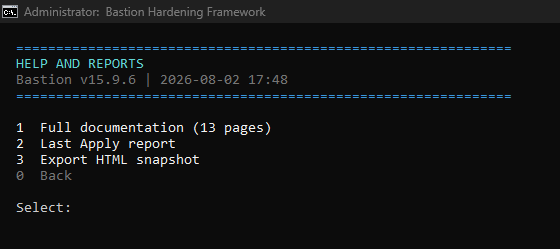
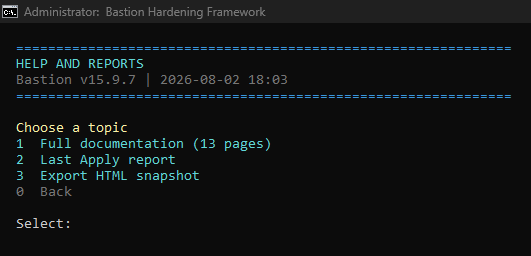
docs: promote v15.9.7 as public recommended build
Refresh help-overview screenshot, wiki Home/FAQ, README/SECURITY/ARCHITECTURE
so modular 15.9.7 is Latest (no longer pin 15.8.4 / prerelease language).

diff --git a/docs/wiki/Home.md b/docs/wiki/Home.md
@@ -2,7 +2,7 @@
 
 **Selective, state-aware, safety-first Windows hardening for a personal PC you administer.**
 
-This wiki is a short **user handbook** for **Bastion v15.9.7** (modular plain-text `src\` builds; source never encrypted; DPAPI only for Apply undo data; forced black console theme). Deeper technical detail ships **in the release zip** under `docs/` and in **in-app Help** (main menu **11**). Prefer the [v15.9.7 prerelease](https://github.com/jjames06/bastion-hardening/releases/tag/v15.9.7) for modular launch fixes + dark console; the [official site](https://www.operationlockedin.com/bastion/download) / [Latest](https://github.com/jjames06/bastion-hardening/releases/latest) may still pin public **15.8.4**. Always start with **`Bastion-Hardening.bat`** (Unblock the zip first; never double-click the `.ps1` alone).
+This wiki is a short **user handbook** for **Bastion v15.9.7** (modular plain-text `src\` builds; source never encrypted; DPAPI only for Apply undo data; forced black console theme; Help docs color-coded for dark UI). Deeper technical detail ships **in the release zip** under `docs/` and in **in-app Help** (main menu **11**). **v15.9.7** is the public recommended build on the [official site](https://www.operationlockedin.com/bastion/download) and [GitHub Latest](https://github.com/jjames06/bastion-hardening/releases/latest). Always start with **`Bastion-Hardening.bat`** (Unblock the zip first; never double-click the `.ps1` alone).
 
 ## Start here
 

diff --git a/docs/wiki/FAQ.md b/docs/wiki/FAQ.md
@@ -14,10 +14,10 @@
 
 ## Which file do I download?
 
-Prefer **v15.9.7** modular (Help color-coded docs on black console; forced dark theme; High-IL bat elevation; goto-safe launcher; works after LanmanServer is disabled). Official site download may still pin GitHub **Latest** (often monolith **v15.8.4**) until modular is promoted - that is intentional.
+Prefer **v15.9.7** modular (Help color-coded docs on black console; forced dark theme; High-IL bat elevation; goto-safe launcher; works after LanmanServer is disabled). **v15.9.7** is the public recommended build (GitHub Latest + official site).
 
-- **Modular prerelease (recommended for hardened PCs):** https://github.com/jjames06/bastion-hardening/releases/tag/v15.9.7  
-- **Official site / GitHub Latest (public pin):** https://www.operationlockedin.com/bastion/download and https://github.com/jjames06/bastion-hardening/releases/latest  
+- **Recommended (Latest):** https://github.com/jjames06/bastion-hardening/releases/tag/v15.9.7  
+- **Official site / GitHub Latest:** https://www.operationlockedin.com/bastion/download and https://github.com/jjames06/bastion-hardening/releases/latest  
 
 **Install rule:** Unblock the zip, extract, always run **`Bastion-Hardening.bat`** as administrator. Never double-click `Bastion-Hardening.ps1` alone under Restricted policy.
 

diff --git a/docs/ARCHITECTURE.md b/docs/ARCHITECTURE.md
@@ -141,9 +141,9 @@ Expected: “Elevated console ready”, then main menu (or use `tools-run-bootst
 
 ## Version
 
-Product-facing version is **15.9.6** (`$script:Config.ScriptVersion` in `Bastion.Init.ps1`, bootstrap header, README, SECURITY supported table, pack-release default). Prefer **15.9.6** for consistent dark console theme plus **15.9.5** launch fixes on Bastion-hardened machines where Server/LanmanServer is disabled. Always start with the `.bat`, never the `.ps1` alone.
+Product-facing version is **15.9.7** (`$script:Config.ScriptVersion` in `Bastion.Init.ps1`, bootstrap header, README, SECURITY supported table, pack-release default). Prefer **15.9.7** for Help color-coded docs on the dark console, forced black theme (**15.9.6**), and **15.9.5** launch fixes on Bastion-hardened machines where Server/LanmanServer is disabled. Always start with the `.bat`, never the `.ps1` alone.
 
-**Public site note:** Official site download may remain pinned to GitHub **Latest** (often monolith **15.8.4**) while modular **15.9.x** ships as GitHub **prerelease**. That is intentional until modular is promoted to Latest.
+**Public site note:** Official site download and GitHub **Latest** recommend modular **15.9.7** (plain-text `src\`, MANIFEST integrity; source never encrypted).
 
 ## Related docs
 

diff --git a/README.md b/README.md
@@ -472,7 +472,7 @@ powershell -NoProfile -ExecutionPolicy Bypass -File tools\pack-release.ps1
 # Upload that file as the GitHub Release asset (name must match bastion-hardening-v*.zip)
 ```
 
-Layout inside the zip: `bastion-hardening-v15.9.7\Bastion-Hardening.bat` plus helpers (`tools-elevate-self.ps1`, `tools-run-bootstrap.ps1`), `src\Bastion.*.ps1`, and `src\MANIFEST.sha256`. Modular source is plain text; only Apply undo DNS/RDP blobs use DPAPI. The site download API may still resolve GitHub **Latest** (public pin often **15.8.4**) while **15.9.7** ships as a GitHub **prerelease**.
+Layout inside the zip: `bastion-hardening-v15.9.7\Bastion-Hardening.bat` plus helpers (`tools-elevate-self.ps1`, `tools-run-bootstrap.ps1`), `src\Bastion.*.ps1`, and `src\MANIFEST.sha256`. Modular source is plain text; only Apply undo DNS/RDP blobs use DPAPI. **v15.9.7** is the public recommended build (GitHub Latest + official site).
 
 ---
 

diff --git a/SECURITY.md b/SECURITY.md
@@ -1,4 +1,4 @@
-# Security Policy
+# Security Policy
 
 ## Supported versions
 
@@ -12,7 +12,7 @@
 | 15.9.2  | Superseded - launch hardening; use 15.9.7 |
 | 15.9.0  | Superseded - modular plain-text `src\` + MANIFEST + script-scope load; use 15.9.7 |
 | 15.9.1  | Retracted (tag/release removed; fix folded into 15.9.0 then 15.9.7) |
-| 15.8.4  | Public Latest / site pin (monolith) until modular is promoted; best-effort |
+| 15.8.4  | Superseded monolith - prefer modular 15.9.7; best-effort |
 | 15.8.3  | Best-effort until you upgrade |
 | 15.8.2  | Best-effort until you upgrade |
 | 15.8.1  | Best-effort until you upgrade |
